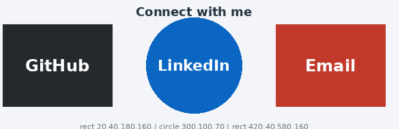
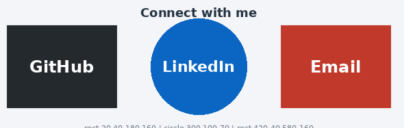
Lab 9: Added contact form with fieldsets, dropdowns, text areas, and thank-you.html

diff --git a/index.html b/index.html
@@ -21,7 +21,7 @@
         </figure>
         <p>Software Engineering student and aspiring web developer.</p>
 
-        <nav> 
+        <nav>
             <a href="#about">About</a> |
             <a href="#skills">Skills</a> |
             <a href="#projects">Projects</a> |
@@ -86,8 +86,8 @@
 
             <article>
                 <h3>Tic-Tac-Toe Game</h3>
-                <img src="images/project-tic-tac-toe-game.png" alt="Screenshot of the C++ Tic-Tac-Toe game board in the terminal"
-                    width="400" height="250">
+                <img src="images/project-tic-tac-toe-game.png"
+                    alt="Screenshot of the C++ Tic-Tac-Toe game board in the terminal" width="400" height="250">
                 <p>A C++ console-based Tic-Tac-Toe game featuring interactive player turns and win validation.</p>
             </article>
 
@@ -95,7 +95,8 @@
                 <h3>Small banking system</h3>
                 <img src="images/banking-system.png" alt="Screenshot of the library system console program" width="400"
                     height="250">
-                <p>A C++ console-based application for managing customer accounts, handling secure deposits and withdrawals, and
+                <p>A C++ console-based application for managing customer accounts, handling secure deposits and
+                    withdrawals, and
                     checking real-time balances.</p>
             </article>
 
@@ -183,13 +184,46 @@
             <p><a href="files/CV - Kidus Girma.pdf" download>Download my Resume (PDF)</a></p>
 
             <h3>Connect with me</h3>
-            <img src="images/connect-banner.png" usemap="#connectmap" alt="Connect banner: GitHub, LinkedIn, Email" width="600"
-                height="200">
+            <img src="images/connect-banner.png" usemap="#connectmap" alt="Connect banner: GitHub, LinkedIn, Email"
+                width="600" height="200">
             <map name="connectmap">
                 <area shape="rect" coords="20,40,180,160" href="https://github.com/k1dra" alt="GitHub">
                 <area shape="circle" coords="300,100,70" href="https://www.linkedin.com/in/kidus-girma" alt="LinkedIn">
                 <area shape="rect" coords="420,40,580,160" href="mailto:kidrag88@gmail.com" alt="Email">
             </map>
+            <h3>Send me a message</h3>
+            <form action="thank-you.html" method="get">
+                <fieldset>
+                    <legend>Your Details</legend>
+                    <label for="fullname">Full name:</label>
+                    <input type="text" id="fullname" name="fullname">
+                    <br><br>
+                    <label for="email">Email:</label>
+                    <input type="email" id="email" name="email">
+                </fieldset>
+                <fieldset>
+                    <legend>Your Message</legend>
+                    <label for="reason">Reason for contacting me:</label>
+                    <select id="reason" name="reason">
+                        <optgroup label="Work">
+                            <option value="internship">Internship offer</option>
+                            <option value="freelance">Freelance project</option>
+                            <option value="job">Full-time job</option>
+                        </optgroup>
+                        <optgroup label="Study">
+                            <option value="group-project">Group project</option>
+                            <option value="tutoring">Tutoring</option>
+                        </optgroup>
+                        <option value="other">Other</option>
+                    </select>
+                    <br><br>
+                    <label for="message">Message:</label><br>
+                    <textarea id="message" name="message" rows="6" cols="40"></textarea>
+                </fieldset>
+                <button type="submit">Send Message</button>
+                <button type="reset">Clear</button>
+
+            </form>
         </section>
     </main>
 

diff --git a/thank-you.html b/thank-you.html
@@ -1,0 +1,30 @@
+<!DOCTYPE html>
+<html lang="en">
+<head>
+    <meta charset="UTF-8">
+    <meta name="viewport" content="width=device-width, initial-scale=1.0">
+    <meta name="description" content="Thank you page for Kidus Girma's portfolio contact form.">
+    <meta name="keywords" content="Kidus Girma, contact, thank you">
+    <meta name="author" content="Kidus Girma">
+    <title>Thank You | Kidus Girma</title>
+    <link rel="icon" type="image/png" href="images/favicon.png">
+</head>
+<body>
+    <header>
+        <nav>
+            <p><a href="index.html">← Back to Home</a></p>
+        </nav>
+    </header>
+
+    <main>
+        <h1>Thank you!</h1>
+        <p>Your message has been sent. I will reply within two days.</p>
+        <p>Look at the address bar: the data you typed is in the URL.</p>
+        <p><a href="index.html">Back to Home</a></p>
+    </main>
+
+    <footer>
+        <p>Copyright 2026 Kidus Girma. All rights reserved.</p>
+    </footer>
+</body>
+</html>
